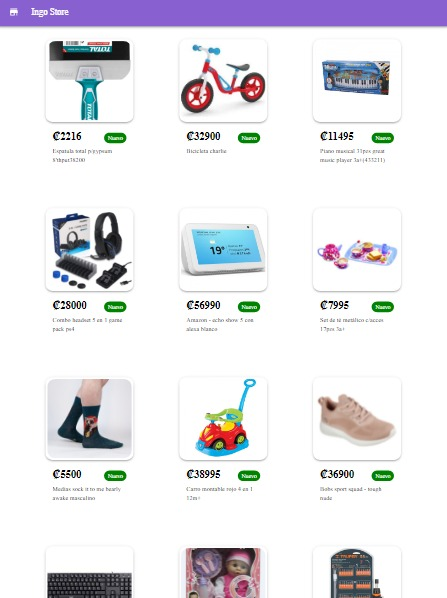
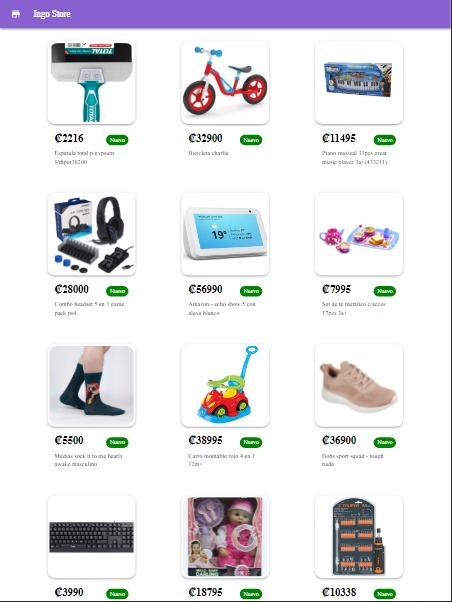
Reduce the size of cards

diff --git a/src/components/card/CardProduct.js b/src/components/card/CardProduct.js
@@ -1,5 +1,4 @@
 import React, { useState } from "react";
-//import Card from "@material-ui/core/Card";
 import CardActionArea from "@material-ui/core/CardActionArea";
 import CardContent from "@material-ui/core/CardContent";
 import CardMedia from "@material-ui/core/CardMedia";

diff --git a/src/styles/appStyles.js b/src/styles/appStyles.js
@@ -5,7 +5,7 @@ export const stylesApp = makeStyles((theme) => ({
   // Cards
   root: {
     maxWidth: 200,
-    height: 320,
+    height: 280,
     float: "left",
     padding: "16px",
     margin: "16px",
